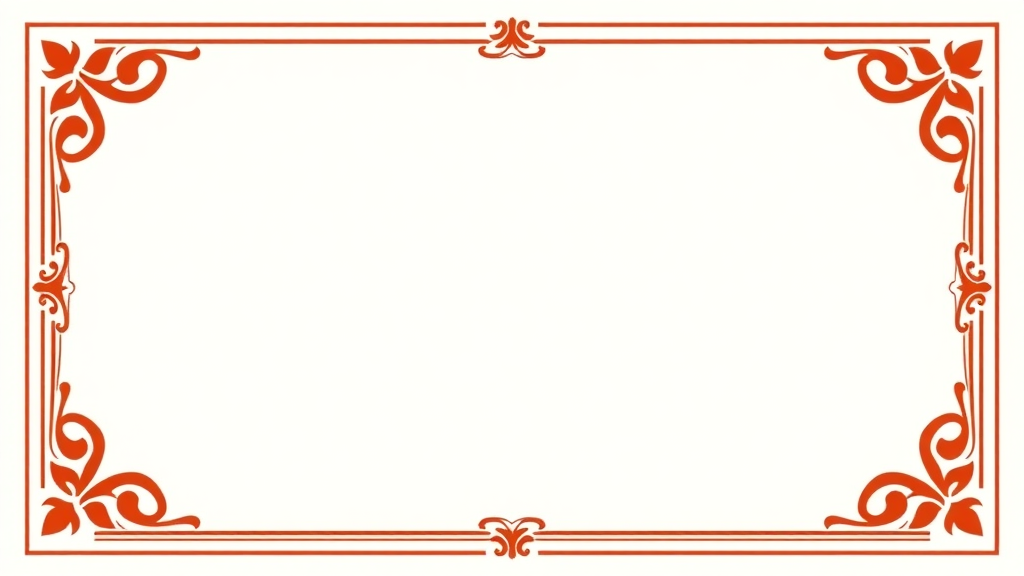
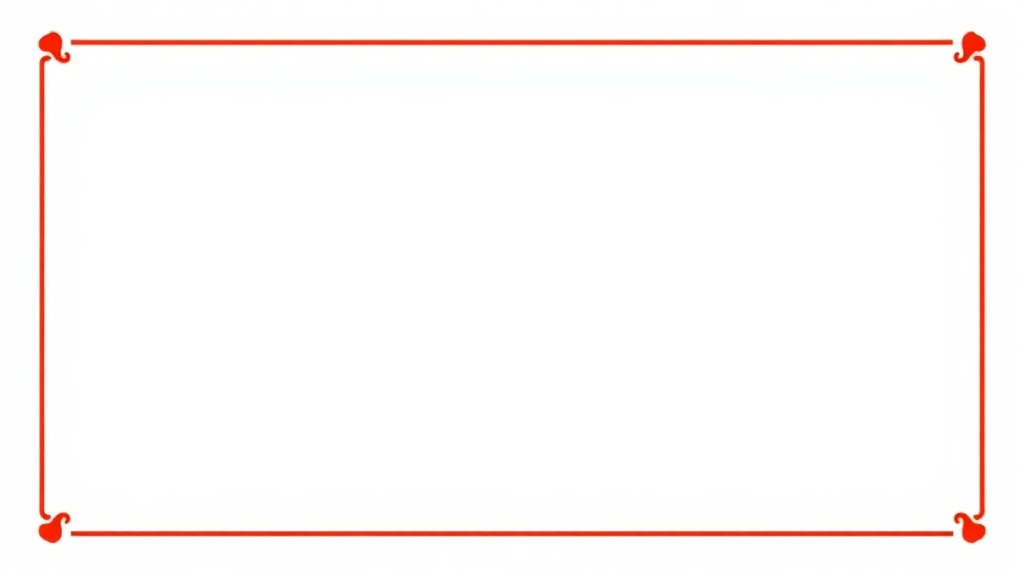
feat: add background image to text box; remove deck emptying

Changed region(s): [[0.0, 0.0312, 1.0, 0.9688]]

diff --git a/card_draw/card_draw.py b/card_draw/card_draw.py
@@ -1,15 +1,10 @@
 import json
-import os
 import random
 import tkinter as tk
 from pathlib import Path
 from tkinter import messagebox
 
 from PIL import Image, ImageTk
-
-# todo: add card border as background to the text box
-# todo: remove "deck is empty" messages
-# todo: add remaining icons
 
 
 class CardDrawingApp:
@@ -19,6 +14,12 @@ class CardDrawingApp:
     icons_dir = images_dir / "icons"
     banner_dir = images_dir
     card_background_dir = images_dir
+
+    canvas_width = 700
+    canvas_height = 300
+    canvas_text_pos_x = 350
+    canvas_text_pos_y = 150
+    canvas_text_width = canvas_width - 100
 
     def __init__(self, master):
         self.master = master
@@ -51,53 +52,66 @@ class CardDrawingApp:
 
         banner_path = self.banner_dir / "banner.png"
         if banner_path.exists():
-            # Open the image
             img = Image.open(banner_path)
-            # Get the original dimensions
             original_width, original_height = img.size
-            # Desired width
-            banner_img_desired_width = 700  # Replace with your desired width
-            # Calculate the new height to maintain the aspect ratio
+            banner_img_desired_width = 700
             aspect_ratio = original_height / original_width
             new_height = int(banner_img_desired_width * aspect_ratio)
-            # Resize the image
             resized_img = img.resize((banner_img_desired_width, new_height))
-            # Convert to PhotoImage and save
             self.banner = ImageTk.PhotoImage(resized_img)
         else:
             self.banner = None
 
+        # Load card background image
+        bg_path = self.card_background_dir / "card_background.png"
+        if bg_path.exists():
+            self.bg_image = Image.open(bg_path)
+        else:
+            self.bg_image = None
+
     def create_widgets(self):
-        # Main frame
         main_frame = tk.Frame(self.master)
         main_frame.pack(expand=True, fill="both", padx=20, pady=20)
 
-        # Left column (Holidays and Surprise)
         left_frame = tk.Frame(main_frame)
         left_frame.grid(row=0, column=0, sticky="ns")
         self.create_category_frame(left_frame, "holidays")
         self.create_category_frame(left_frame, "surprise")
 
-        # Center column (Banner and Card display)
         center_frame = tk.Frame(main_frame)
         center_frame.grid(row=0, column=1, padx=20)
 
-        # Banner
         if self.banner:
             banner_label = tk.Label(center_frame, image=self.banner)
             banner_label.grid(row=0, column=0, pady=10)
 
-        self.result_text = tk.Text(
-            center_frame, wrap=tk.WORD, width=40, height=10, font=("Arial", 16)
+        self.result_canvas = tk.Canvas(
+            center_frame,
+            width=self.canvas_width,
+            height=self.canvas_height,
+            highlightthickness=0,
         )
-        self.result_text.grid(row=1, column=0)
+        self.result_canvas.grid(row=1, column=0)
 
-        # Right column (Class)
+        if self.bg_image:
+            self.bg_photo = ImageTk.PhotoImage(
+                self.bg_image.resize((self.canvas_width, self.canvas_height))
+            )
+            self.result_canvas.create_image(0, 0, anchor="nw", image=self.bg_photo)
+
+        self.result_text = self.result_canvas.create_text(
+            self.canvas_text_pos_x,
+            self.canvas_text_pos_y,
+            text="",
+            width=self.canvas_text_width,
+            font=("Arial", 16),
+            anchor="center",
+        )
+
         right_frame = tk.Frame(main_frame)
         right_frame.grid(row=0, column=2, sticky="ns")
         self.create_category_frame(right_frame, "class")
 
-        # Configure grid
         main_frame.grid_columnconfigure(1, weight=1)
         main_frame.grid_rowconfigure(0, weight=1)
         center_frame.grid_columnconfigure(0, weight=1)
@@ -130,23 +144,16 @@ class CardDrawingApp:
         for category, types in self.cards.items():
             if card_type in types and types[card_type]:
                 card = random.choice(types[card_type])
-                self.result_text.config(state=tk.NORMAL)
-                self.result_text.delete(1.0, tk.END)
-                self.result_text.insert(
-                    tk.END,
-                    f"{category.capitalize()} - {card_type.capitalize()} card:\n\n{card}",
+                self.result_canvas.itemconfig(
+                    self.result_text,
+                    text=f"{category.capitalize()} - {card_type.capitalize()} card:\n\n{card}",
                 )
-                self.result_text.config(state=tk.DISABLED)
                 return
-        self.result_text.delete(1.0, tk.END)
-        self.result_text.insert(tk.END, f"No cards available in {card_type} deck.")
-
 
 def main():
     root = tk.Tk()
     app = CardDrawingApp(root)
     root.mainloop()
-
 
 if __name__ == "__main__":
     main()
